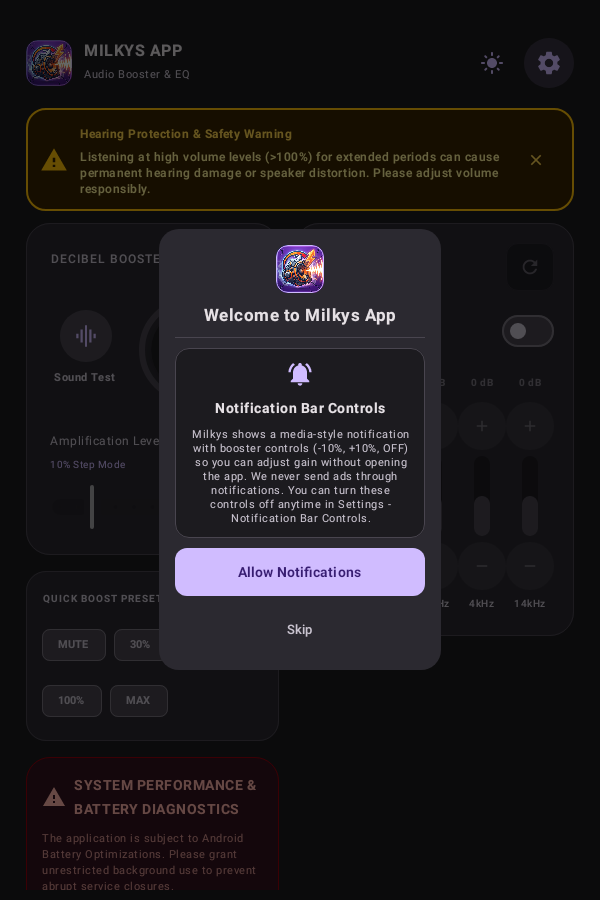
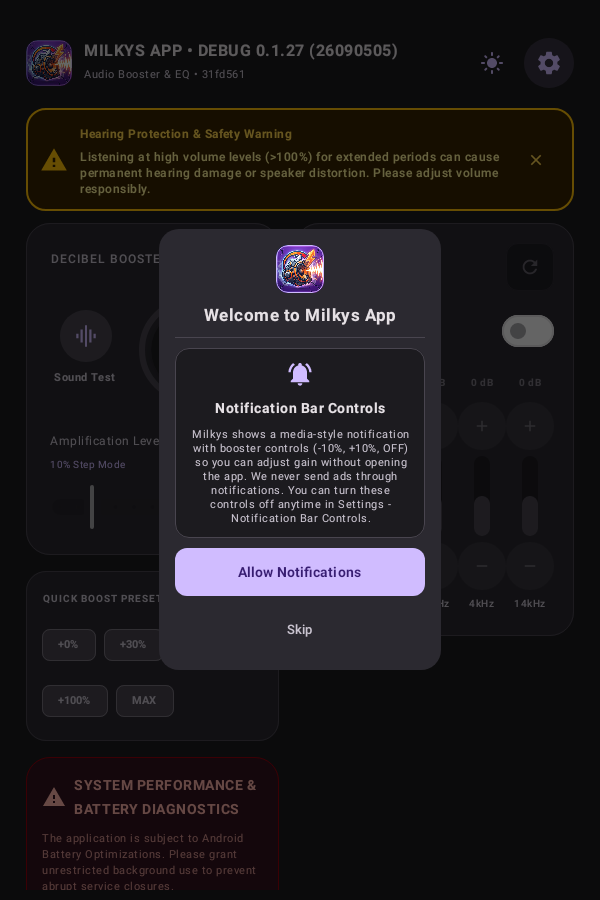
fix(rotation+favmax+bridge): keep booster on rotate, Favorites x/4, explicit bridge component
- MainActivity.onCreate: cold-start-only auto-start/breaker (savedInstanceState guard) so L->P->L no longer resets booster; device-verified fixed
- PresetManagerCard: header shows 'Favorites x/4', star always tappable (limit toast when full, power toast when EQ off)
- debug_cmd.sh: explicit -n receiver (implicit broadcasts dropped on Android 8+); bridge verified live via dump_state
- Tests 37/37, lint 0, Roborazzi re-recorded + verify PASS

Changed region(s): [[0.33, 0.0311, 0.66, 0.0933], [0.84, 0.3422, 0.93, 0.4044]]

diff --git a/app/src/main/java/com/milkys/soundbooster/ui/components/PresetManagerCard.kt b/app/src/main/java/com/milkys/soundbooster/ui/components/PresetManagerCard.kt
@@ -129,15 +129,30 @@ fun PresetManagerCard(
             modifier = Modifier.padding(20.dp),
             verticalArrangement = Arrangement.spacedBy(12.dp)
         ) {
-            Text(
-                text = stringResource(R.string.preset_manager_title),
-                color = textPrimary,
-                fontSize = 14.sp,
-                fontWeight = FontWeight.Bold,
-                maxLines = 1,
-                overflow = TextOverflow.Ellipsis,
-                modifier = Modifier.fillMaxWidth()
-            )
+            Row(
+                modifier = Modifier.fillMaxWidth(),
+                horizontalArrangement = Arrangement.SpaceBetween,
+                verticalAlignment = Alignment.CenterVertically
+            ) {
+                Text(
+                    text = stringResource(R.string.preset_manager_title),
+                    color = textPrimary,
+                    fontSize = 14.sp,
+                    fontWeight = FontWeight.Bold,
+                    maxLines = 1,
+                    overflow = TextOverflow.Ellipsis,
+                    modifier = Modifier.weight(1f).padding(end = 8.dp)
+                )
+                // Q1-A: live slot usage — favorites feed the overlay panel (capped),
+                // labeled explicitly so x/4 needs no guessing
+                Text(
+                    text = "Favorites ${favoritePresets.size}/${AudioEffectManager.MAX_FAVORITES}",
+                    color = textSecondary,
+                    fontSize = 12.sp,
+                    fontWeight = FontWeight.SemiBold,
+                    maxLines = 1
+                )
+            }
 
             Row(
                 modifier = Modifier.fillMaxWidth(),
@@ -267,7 +282,16 @@ fun PresetManagerCard(
                                     if (isFav) {
                                         Text(text = "#$favSlot", color = AppColors.WarningTitle, fontSize = 11.sp, fontWeight = FontWeight.Bold)
                                     }
-                                    androidx.compose.material3.IconButton(onClick = { val ok = onToggleFavorite(preset); if (!ok) Toast.makeText(context, context.getString(R.string.preset_favorite_limit_reached), Toast.LENGTH_SHORT).show() }, enabled = isEnabled, modifier = Modifier.defaultMinSize(minWidth = 48.dp, minHeight = 48.dp).size(48.dp)) {
+                                    // Q1-A: star stays tappable even when EQ is off so every tap
+                                    // gives feedback — limit toast when full, power toast when EQ off
+                                    androidx.compose.material3.IconButton(onClick = {
+                                        if (!isEnabled) {
+                                            Toast.makeText(context, context.getString(R.string.eq_requires_power), Toast.LENGTH_SHORT).show()
+                                        } else {
+                                            val ok = onToggleFavorite(preset)
+                                            if (!ok) Toast.makeText(context, context.getString(R.string.preset_favorite_limit_reached), Toast.LENGTH_SHORT).show()
+                                        }
+                                    }, modifier = Modifier.defaultMinSize(minWidth = 48.dp, minHeight = 48.dp).size(48.dp)) {
                                         Icon(imageVector = if (isFav) Icons.Default.Star else Icons.Default.StarBorder, contentDescription = stringResource(R.string.content_desc_favorite_preset), tint = if (isFav) AppColors.WarningTitle else textSecondary.copy(alpha = 0.5f), modifier = Modifier.size(20.dp))
                                     }
                                 }

diff --git a/app/src/main/java/com/milkys/soundbooster/MainActivity.kt b/app/src/main/java/com/milkys/soundbooster/MainActivity.kt
@@ -101,6 +101,10 @@ class MainActivity : AppCompatActivity() {
         // Crash-loop breaker: with POST_NOTIFICATIONS denied, skip the silent auto-start
         // and drop persisted boost so a denied-notif state can never wedge the app into
         // an FGS start loop; the user re-enables explicitly (manual toggles always start).
+        // Rotation guard: config-change recreation (savedInstanceState != null) keeps the
+        // live singleton flows + running service — never auto-start or breaker-reset here,
+        // otherwise every L→P→L rotation kills an active booster in the foreground.
+        if (savedInstanceState == null) {
         val notificationsEnabled = if (Build.VERSION.SDK_INT >= Build.VERSION_CODES.TIRAMISU) {
             val nm = getSystemService(Context.NOTIFICATION_SERVICE) as NotificationManager
             nm.areNotificationsEnabled()
@@ -121,6 +125,9 @@ class MainActivity : AppCompatActivity() {
                 "Notifications are off — booster paused. Enable in Settings → Notification Bar Controls.",
                 Toast.LENGTH_LONG
             ).show()
+        }
+        } else {
+            DebugLogBridge.v(DebugLogBridge.TAG_DASH, "onCreate recreation — keeping live booster/EQ state")
         }
 
         // Initialize Google Mobile Ads SDK via reflection if included in the build
